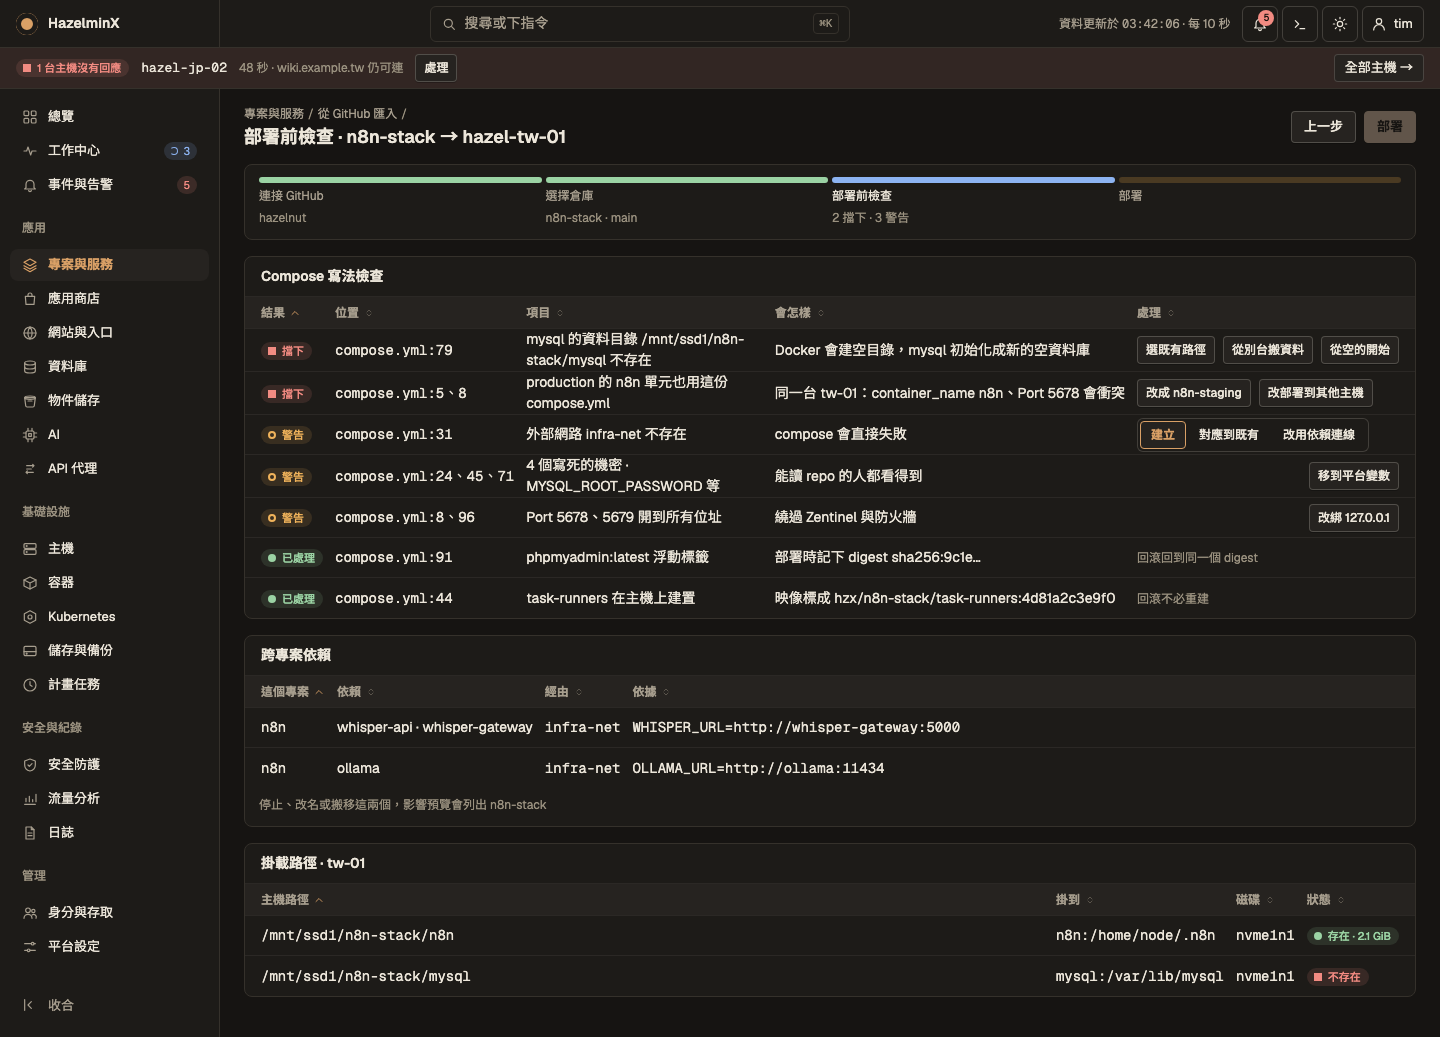
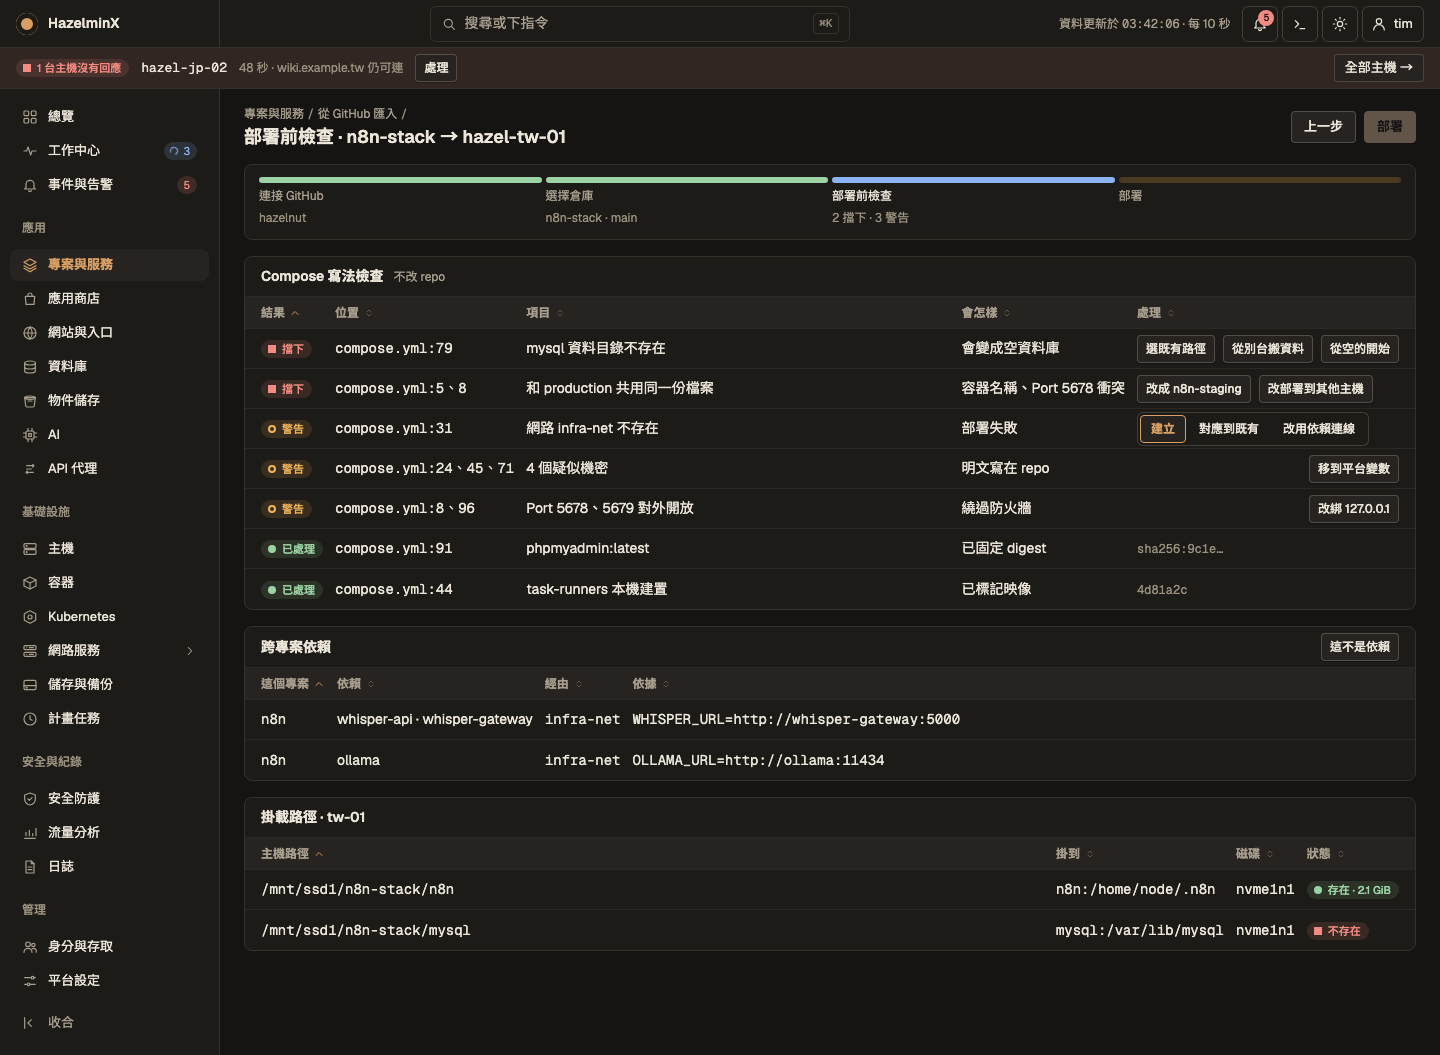
design: shorten the Compose check table text

diff --git a/design/screens/ComposeCompat.dc.html b/design/screens/ComposeCompat.dc.html
@@ -496,19 +496,19 @@ body{margin:0}
     <button type="button" class="nv coll" aria-label="收合側欄"><svg viewBox="0 0 24 24" width="16" height="16" fill="none" stroke="currentColor" stroke-width="1.8" stroke-linecap="round" stroke-linejoin="round" aria-hidden="true"><path d="m14 7-5 5 5 5"/><path d="M4 4v16"/></svg><span>收合</span></button>
   </nav><main class="main">
     <div class="phead"><div class="name"><nav class="pcrumb" aria-label="位置"><a href="Projects.dc.html">專案與服務</a><span class="sep" aria-hidden="true">/</span><a href="GitHubSource.dc.html">從 GitHub 匯入</a><span class="sep" aria-hidden="true">/</span></nav><h1>部署前檢查 · n8n-stack → hazel-tw-01</h1></div>
-      <div class="wrap" style="margin-left:auto"><a class="btn" href="GitHubSource.dc.html">上一步</a><span tabindex="0" data-tip="還有 2 項擋下沒處理"><button type="button" class="btn pri" disabled>部署</button></span></div></div><div class="panel" style="padding:12px 14px"><div class="steps"><div class="step done"><b aria-hidden="true"></b><span>連接 GitHub</span><span class="note">hazelnut</span></div><div class="step done"><b aria-hidden="true"></b><span>選擇倉庫</span><span class="note">n8n-stack · main</span></div><div class="step cur"><b aria-hidden="true"></b><span>部署前檢查</span><span class="note">2 擋下 · 3 警告</span></div><div class="step todo"><b aria-hidden="true"></b><span>部署</span><span class="note"></span></div></div></div><section class="panel"><div class="ph"><h2>Compose 寫法檢查</h2></div>
+      <div class="wrap" style="margin-left:auto"><a class="btn" href="GitHubSource.dc.html">上一步</a><span tabindex="0" data-tip="還有 2 項擋下沒處理"><button type="button" class="btn pri" disabled>部署</button></span></div></div><div class="panel" style="padding:12px 14px"><div class="steps"><div class="step done"><b aria-hidden="true"></b><span>連接 GitHub</span><span class="note">hazelnut</span></div><div class="step done"><b aria-hidden="true"></b><span>選擇倉庫</span><span class="note">n8n-stack · main</span></div><div class="step cur"><b aria-hidden="true"></b><span>部署前檢查</span><span class="note">2 擋下 · 3 警告</span></div><div class="step todo"><b aria-hidden="true"></b><span>部署</span><span class="note"></span></div></div></div><section class="panel"><div class="ph"><h2>Compose 寫法檢查</h2><span class="sub">不改 repo</span></div>
       <div class="tw" style="--tc:auto auto minmax(min(160px,34%),1fr) var(--k3,auto) auto"><div class="row hd r0"><span class=""><span class="sortable on">結果 <svg viewBox="0 0 24 24" width="12" height="12" fill="none" stroke="currentColor" stroke-width="1.8" stroke-linecap="round" stroke-linejoin="round" aria-hidden="true"><path d="m6 15 6-6 6 6"/></svg></span></span><span class=""><span class="sortable">位置 <svg viewBox="0 0 24 24" width="12" height="12" fill="none" stroke="currentColor" stroke-width="1.8" stroke-linecap="round" stroke-linejoin="round" aria-hidden="true"><path d="m8 10 4-4 4 4"/><path d="m8 14 4 4 4-4"/></svg></span></span><span class=""><span class="sortable">項目 <svg viewBox="0 0 24 24" width="12" height="12" fill="none" stroke="currentColor" stroke-width="1.8" stroke-linecap="round" stroke-linejoin="round" aria-hidden="true"><path d="m8 10 4-4 4 4"/><path d="m8 14 4 4 4-4"/></svg></span></span><span class="c3"><span class="sortable">會怎樣 <svg viewBox="0 0 24 24" width="12" height="12" fill="none" stroke="currentColor" stroke-width="1.8" stroke-linecap="round" stroke-linejoin="round" aria-hidden="true"><path d="m8 10 4-4 4 4"/><path d="m8 14 4 4 4-4"/></svg></span></span><span class=""><span class="sortable">處理 <svg viewBox="0 0 24 24" width="12" height="12" fill="none" stroke="currentColor" stroke-width="1.8" stroke-linecap="round" stroke-linejoin="round" aria-hidden="true"><path d="m8 10 4-4 4 4"/><path d="m8 14 4 4 4-4"/></svg></span></span></div>
-      <div class="row r0"><span><span class="st dng"><i aria-hidden="true"></i>擋下</span></span><span class="mono">compose.yml:79</span><span><span class="n">mysql 的資料目錄 /mnt/ssd1/n8n-stack/mysql 不存在</span></span><span class="c3">Docker 會建空目錄，mysql 初始化成新的空資料庫</span><span><span class="wrap"><button type="button" class="btn sm">選既有路徑</button><button type="button" class="btn sm">從別台搬資料</button><button type="button" class="btn sm">從空的開始</button></span></span></div>
-      <div class="row r0"><span><span class="st dng"><i aria-hidden="true"></i>擋下</span></span><span class="mono">compose.yml:5、8</span><span><span class="n">production 的 n8n 單元也用這份 compose.yml</span></span><span class="c3">同一台 tw-01：container_name n8n、Port 5678 會衝突</span><span><span class="wrap"><button type="button" class="btn sm">改成 n8n-staging</button><a class="btn sm" href="UnitConfig.dc.html">改部署到其他主機</a></span></span></div>
-      <div class="row r0"><span><span class="st warn"><i aria-hidden="true"></i>警告</span></span><span class="mono">compose.yml:31</span><span><span class="n">外部網路 infra-net 不存在</span></span><span class="c3">compose 會直接失敗</span><span><span class="wrap"><div class="range" role="group" aria-label="infra-net" style="flex-wrap:wrap"><button type="button" class="btn on" aria-pressed="true">建立</button><button type="button" class="btn" aria-pressed="false">對應到既有</button><button type="button" class="btn" aria-pressed="false">改用依賴連線</button></div></span></span></div>
-      <div class="row r0"><span><span class="st warn"><i aria-hidden="true"></i>警告</span></span><span class="mono">compose.yml:24、45、71</span><span><span class="n"><span tabindex='0' data-tip='依變數名稱判斷（含 PASSWORD、SECRET、TOKEN、KEY）'>4 個可能是機密</span> · MYSQL_ROOT_PASSWORD 等</span></span><span class="c3">能讀 repo 的人都看得到</span><span><button type="button" class="btn sm">移到平台變數</button></span></div>
-      <div class="row r0"><span><span class="st warn"><i aria-hidden="true"></i>警告</span></span><span class="mono">compose.yml:8、96</span><span><span class="n">Port 5678、5679 開到所有位址</span></span><span class="c3">繞過 Zentinel 與防火牆</span><span><button type="button" class="btn sm">改綁 127.0.0.1</button></span></div>
-      <div class="row r0"><span><span class="st ok"><i aria-hidden="true"></i>已處理</span></span><span class="mono">compose.yml:91</span><span><span class="n">phpmyadmin:latest 浮動標籤</span></span><span class="c3">部署時記下 digest sha256:9c1e…</span><span><span class="note">回滾回到同一個 digest</span></span></div>
-      <div class="row r0"><span><span class="st ok"><i aria-hidden="true"></i>已處理</span></span><span class="mono">compose.yml:44</span><span><span class="n">task-runners 在主機上建置</span></span><span class="c3">映像標成 hzx/n8n-stack/task-runners:4d81a2c3e9f0</span><span><span class="note">回滾不必重建</span></span></div></div></section><div class="cg"><section class="panel"><div class="ph"><h2>跨專案依賴</h2><button type="button" class="btn sm" style="margin-left:auto">這不是依賴</button></div>
+      <div class="row r0"><span><span class="st dng"><i aria-hidden="true"></i>擋下</span></span><span class="mono">compose.yml:79</span><span><span class="n">mysql 資料目錄不存在</span></span><span class="c3">會變成空資料庫</span><span><span class="wrap"><button type="button" class="btn sm">選既有路徑</button><button type="button" class="btn sm">從別台搬資料</button><button type="button" class="btn sm">從空的開始</button></span></span></div>
+      <div class="row r0"><span><span class="st dng"><i aria-hidden="true"></i>擋下</span></span><span class="mono">compose.yml:5、8</span><span><span class="n">和 production 共用同一份檔案</span></span><span class="c3">容器名稱、Port 5678 衝突</span><span><span class="wrap"><button type="button" class="btn sm">改成 n8n-staging</button><a class="btn sm" href="UnitConfig.dc.html">改部署到其他主機</a></span></span></div>
+      <div class="row r0"><span><span class="st warn"><i aria-hidden="true"></i>警告</span></span><span class="mono">compose.yml:31</span><span><span class="n">網路 infra-net 不存在</span></span><span class="c3">部署失敗</span><span><span class="wrap"><div class="range" role="group" aria-label="infra-net" style="flex-wrap:wrap"><button type="button" class="btn on" aria-pressed="true">建立</button><button type="button" class="btn" aria-pressed="false">對應到既有</button><button type="button" class="btn" aria-pressed="false">改用依賴連線</button></div></span></span></div>
+      <div class="row r0"><span><span class="st warn"><i aria-hidden="true"></i>警告</span></span><span class="mono">compose.yml:24、45、71</span><span><span class="n"><span tabindex='0' data-tip='依變數名稱判斷：PASSWORD、SECRET、TOKEN、KEY'>4 個疑似機密</span></span></span><span class="c3">明文寫在 repo</span><span><button type="button" class="btn sm">移到平台變數</button></span></div>
+      <div class="row r0"><span><span class="st warn"><i aria-hidden="true"></i>警告</span></span><span class="mono">compose.yml:8、96</span><span><span class="n">Port 5678、5679 對外開放</span></span><span class="c3">繞過防火牆</span><span><button type="button" class="btn sm">改綁 127.0.0.1</button></span></div>
+      <div class="row r0"><span><span class="st ok"><i aria-hidden="true"></i>已處理</span></span><span class="mono">compose.yml:91</span><span><span class="n">phpmyadmin:latest</span></span><span class="c3">已固定 digest</span><span><span class="note mono">sha256:9c1e…</span></span></div>
+      <div class="row r0"><span><span class="st ok"><i aria-hidden="true"></i>已處理</span></span><span class="mono">compose.yml:44</span><span><span class="n">task-runners 本機建置</span></span><span class="c3">已標記映像</span><span><span class="note mono">4d81a2c</span></span></div></div></section><div class="cg"><section class="panel"><div class="ph"><h2>跨專案依賴</h2><button type="button" class="btn sm" style="margin-left:auto">這不是依賴</button></div>
       <div class="tw" style="--tc:auto auto auto var(--k3,minmax(min(160px,34%),1fr))"><div class="row hd r0"><span class=""><span class="sortable on">這個專案 <svg viewBox="0 0 24 24" width="12" height="12" fill="none" stroke="currentColor" stroke-width="1.8" stroke-linecap="round" stroke-linejoin="round" aria-hidden="true"><path d="m6 15 6-6 6 6"/></svg></span></span><span class=""><span class="sortable">依賴 <svg viewBox="0 0 24 24" width="12" height="12" fill="none" stroke="currentColor" stroke-width="1.8" stroke-linecap="round" stroke-linejoin="round" aria-hidden="true"><path d="m8 10 4-4 4 4"/><path d="m8 14 4 4 4-4"/></svg></span></span><span class=""><span class="sortable">經由 <svg viewBox="0 0 24 24" width="12" height="12" fill="none" stroke="currentColor" stroke-width="1.8" stroke-linecap="round" stroke-linejoin="round" aria-hidden="true"><path d="m8 10 4-4 4 4"/><path d="m8 14 4 4 4-4"/></svg></span></span><span class="c3"><span class="sortable">依據 <svg viewBox="0 0 24 24" width="12" height="12" fill="none" stroke="currentColor" stroke-width="1.8" stroke-linecap="round" stroke-linejoin="round" aria-hidden="true"><path d="m8 10 4-4 4 4"/><path d="m8 14 4 4 4-4"/></svg></span></span></div>
       <div class="row r0"><span class="mono">n8n</span><span><a href="ProjectDetail.dc.html">whisper-api</a> · whisper-gateway</span><span class="mono">infra-net</span><span class="c3 mono">WHISPER_URL=http://whisper-gateway:5000</span></div>
       <div class="row r0"><span class="mono">n8n</span><span><a href="AI.dc.html">ollama</a></span><span class="mono">infra-net</span><span class="c3 mono">OLLAMA_URL=http://ollama:11434</span></div></div>
-      <div style="padding:8px 14px 12px" class="note">依共用網路上的服務名稱出現在變數裡判斷 · 停止、改名或搬移這兩個，影響預覽會列出 n8n-stack</div></section><section class="panel"><div class="ph"><h2>掛載路徑 · tw-01</h2></div>
+      </section><section class="panel"><div class="ph"><h2>掛載路徑 · tw-01</h2></div>
       <div class="tw" style="--tc:minmax(min(160px,34%),1fr) auto auto auto"><div class="row hd r0"><span class=""><span class="sortable on">主機路徑 <svg viewBox="0 0 24 24" width="12" height="12" fill="none" stroke="currentColor" stroke-width="1.8" stroke-linecap="round" stroke-linejoin="round" aria-hidden="true"><path d="m6 15 6-6 6 6"/></svg></span></span><span class=""><span class="sortable">掛到 <svg viewBox="0 0 24 24" width="12" height="12" fill="none" stroke="currentColor" stroke-width="1.8" stroke-linecap="round" stroke-linejoin="round" aria-hidden="true"><path d="m8 10 4-4 4 4"/><path d="m8 14 4 4 4-4"/></svg></span></span><span class=""><span class="sortable">磁碟 <svg viewBox="0 0 24 24" width="12" height="12" fill="none" stroke="currentColor" stroke-width="1.8" stroke-linecap="round" stroke-linejoin="round" aria-hidden="true"><path d="m8 10 4-4 4 4"/><path d="m8 14 4 4 4-4"/></svg></span></span><span class=""><span class="sortable">狀態 <svg viewBox="0 0 24 24" width="12" height="12" fill="none" stroke="currentColor" stroke-width="1.8" stroke-linecap="round" stroke-linejoin="round" aria-hidden="true"><path d="m8 10 4-4 4 4"/><path d="m8 14 4 4 4-4"/></svg></span></span></div>
       <div class="row r0"><span class="mono">/mnt/ssd1/n8n-stack/n8n</span><span class="mono">n8n:/home/node/.n8n</span><span class="mono">nvme1n1</span><span><span class="st ok"><i aria-hidden="true"></i>存在 · 2.1 GiB</span></span></div>
       <div class="row r0"><span class="mono">/mnt/ssd1/n8n-stack/mysql</span><span class="mono">mysql:/var/lib/mysql</span><span class="mono">nvme1n1</span><span><span class="st dng"><i aria-hidden="true"></i>不存在</span></span></div></div></section></div></main></div></div>

diff --git a/design/tools/build_screens.py b/design/tools/build_screens.py
@@ -4721,19 +4721,19 @@ def compose_compat() -> str:
     blk = U.status("dng", "擋下"); wrn = U.status("warn", "警告"); ok = U.status("ok", "已處理")
     rows = f"""
       <div class="row hd"><span>結果</span><span>位置</span><span>項目</span><span class="c3">會怎樣</span><span>處理</span></div>
-      {it(blk, "compose.yml:79", "mysql 的資料目錄 /mnt/ssd1/n8n-stack/mysql 不存在", "Docker 會建空目錄，mysql 初始化成新的空資料庫", '<span class="wrap"><button type="button" class="btn sm">選既有路徑</button><button type="button" class="btn sm">從別台搬資料</button><button type="button" class="btn sm">從空的開始</button></span>')}
-      {it(blk, "compose.yml:5、8", "production 的 n8n 單元也用這份 compose.yml", "同一台 tw-01：container_name n8n、Port 5678 會衝突", '<span class="wrap"><button type="button" class="btn sm">改成 n8n-staging</button><a class="btn sm" href="UnitConfig.dc.html">改部署到其他主機</a></span>')}
-      {it(wrn, "compose.yml:31", "外部網路 infra-net 不存在", "compose 會直接失敗", '<span class="wrap">' + _seg(["建立", "對應到既有", "改用依賴連線"], 0, "infra-net") + '</span>')}
-      {it(wrn, "compose.yml:24、45、71", "<span tabindex='0' data-tip='依變數名稱判斷（含 PASSWORD、SECRET、TOKEN、KEY）'>4 個可能是機密</span> · MYSQL_ROOT_PASSWORD 等", "能讀 repo 的人都看得到", '<button type="button" class="btn sm">移到平台變數</button>')}
-      {it(wrn, "compose.yml:8、96", "Port 5678、5679 開到所有位址", "繞過 Zentinel 與防火牆", '<button type="button" class="btn sm">改綁 127.0.0.1</button>')}
-      {it(ok, "compose.yml:91", "phpmyadmin:latest 浮動標籤", "部署時記下 digest sha256:9c1e…", '<span class="note">回滾回到同一個 digest</span>')}
-      {it(ok, "compose.yml:44", "task-runners 在主機上建置", "映像標成 hzx/n8n-stack/task-runners:4d81a2c3e9f0", '<span class="note">回滾不必重建</span>')}"""
-    checks = _fp("Compose 寫法檢查", rows, sub="不改 repo · 調整只寫在平台的覆寫層")
+      {it(blk, "compose.yml:79", "mysql 資料目錄不存在", "會變成空資料庫", '<span class="wrap"><button type="button" class="btn sm">選既有路徑</button><button type="button" class="btn sm">從別台搬資料</button><button type="button" class="btn sm">從空的開始</button></span>')}
+      {it(blk, "compose.yml:5、8", "和 production 共用同一份檔案", "容器名稱、Port 5678 衝突", '<span class="wrap"><button type="button" class="btn sm">改成 n8n-staging</button><a class="btn sm" href="UnitConfig.dc.html">改部署到其他主機</a></span>')}
+      {it(wrn, "compose.yml:31", "網路 infra-net 不存在", "部署失敗", '<span class="wrap">' + _seg(["建立", "對應到既有", "改用依賴連線"], 0, "infra-net") + '</span>')}
+      {it(wrn, "compose.yml:24、45、71", "<span tabindex='0' data-tip='依變數名稱判斷：PASSWORD、SECRET、TOKEN、KEY'>4 個疑似機密</span>", "明文寫在 repo", '<button type="button" class="btn sm">移到平台變數</button>')}
+      {it(wrn, "compose.yml:8、96", "Port 5678、5679 對外開放", "繞過防火牆", '<button type="button" class="btn sm">改綁 127.0.0.1</button>')}
+      {it(ok, "compose.yml:91", "phpmyadmin:latest", "已固定 digest", '<span class="note mono">sha256:9c1e…</span>')}
+      {it(ok, "compose.yml:44", "task-runners 本機建置", "已標記映像", '<span class="note mono">4d81a2c</span>')}"""
+    checks = _fp("Compose 寫法檢查", rows, sub="不改 repo")
     deps = _fp("跨專案依賴", f"""
       <div class="row hd"><span>這個專案</span><span>依賴</span><span>經由</span><span class="c3">依據</span></div>
       <div class="row"><span class="mono">n8n</span><span><a href="ProjectDetail.dc.html">whisper-api</a> · whisper-gateway</span><span class="mono">infra-net</span><span class="c3 mono">WHISPER_URL=http://whisper-gateway:5000</span></div>
       <div class="row"><span class="mono">n8n</span><span><a href="AI.dc.html">ollama</a></span><span class="mono">infra-net</span><span class="c3 mono">OLLAMA_URL=http://ollama:11434</span></div>
-      <div style="padding:8px 14px 12px" class="note">依共用網路上的服務名稱出現在變數裡判斷 · 停止、改名或搬移這兩個，影響預覽會列出 n8n-stack</div>""", extra='<button type="button" class="btn sm" style="margin-left:auto">這不是依賴</button>')
+      """, extra='<button type="button" class="btn sm" style="margin-left:auto">這不是依賴</button>')
     mounts = _fp("掛載路徑 · tw-01", f"""
       <div class="row hd"><span>主機路徑</span><span>掛到</span><span>磁碟</span><span>狀態</span></div>
       <div class="row"><span class="mono">/mnt/ssd1/n8n-stack/n8n</span><span class="mono">n8n:/home/node/.n8n</span><span class="mono">nvme1n1</span><span>{U.status("ok", "存在 · 2.1 GiB")}</span></div>
